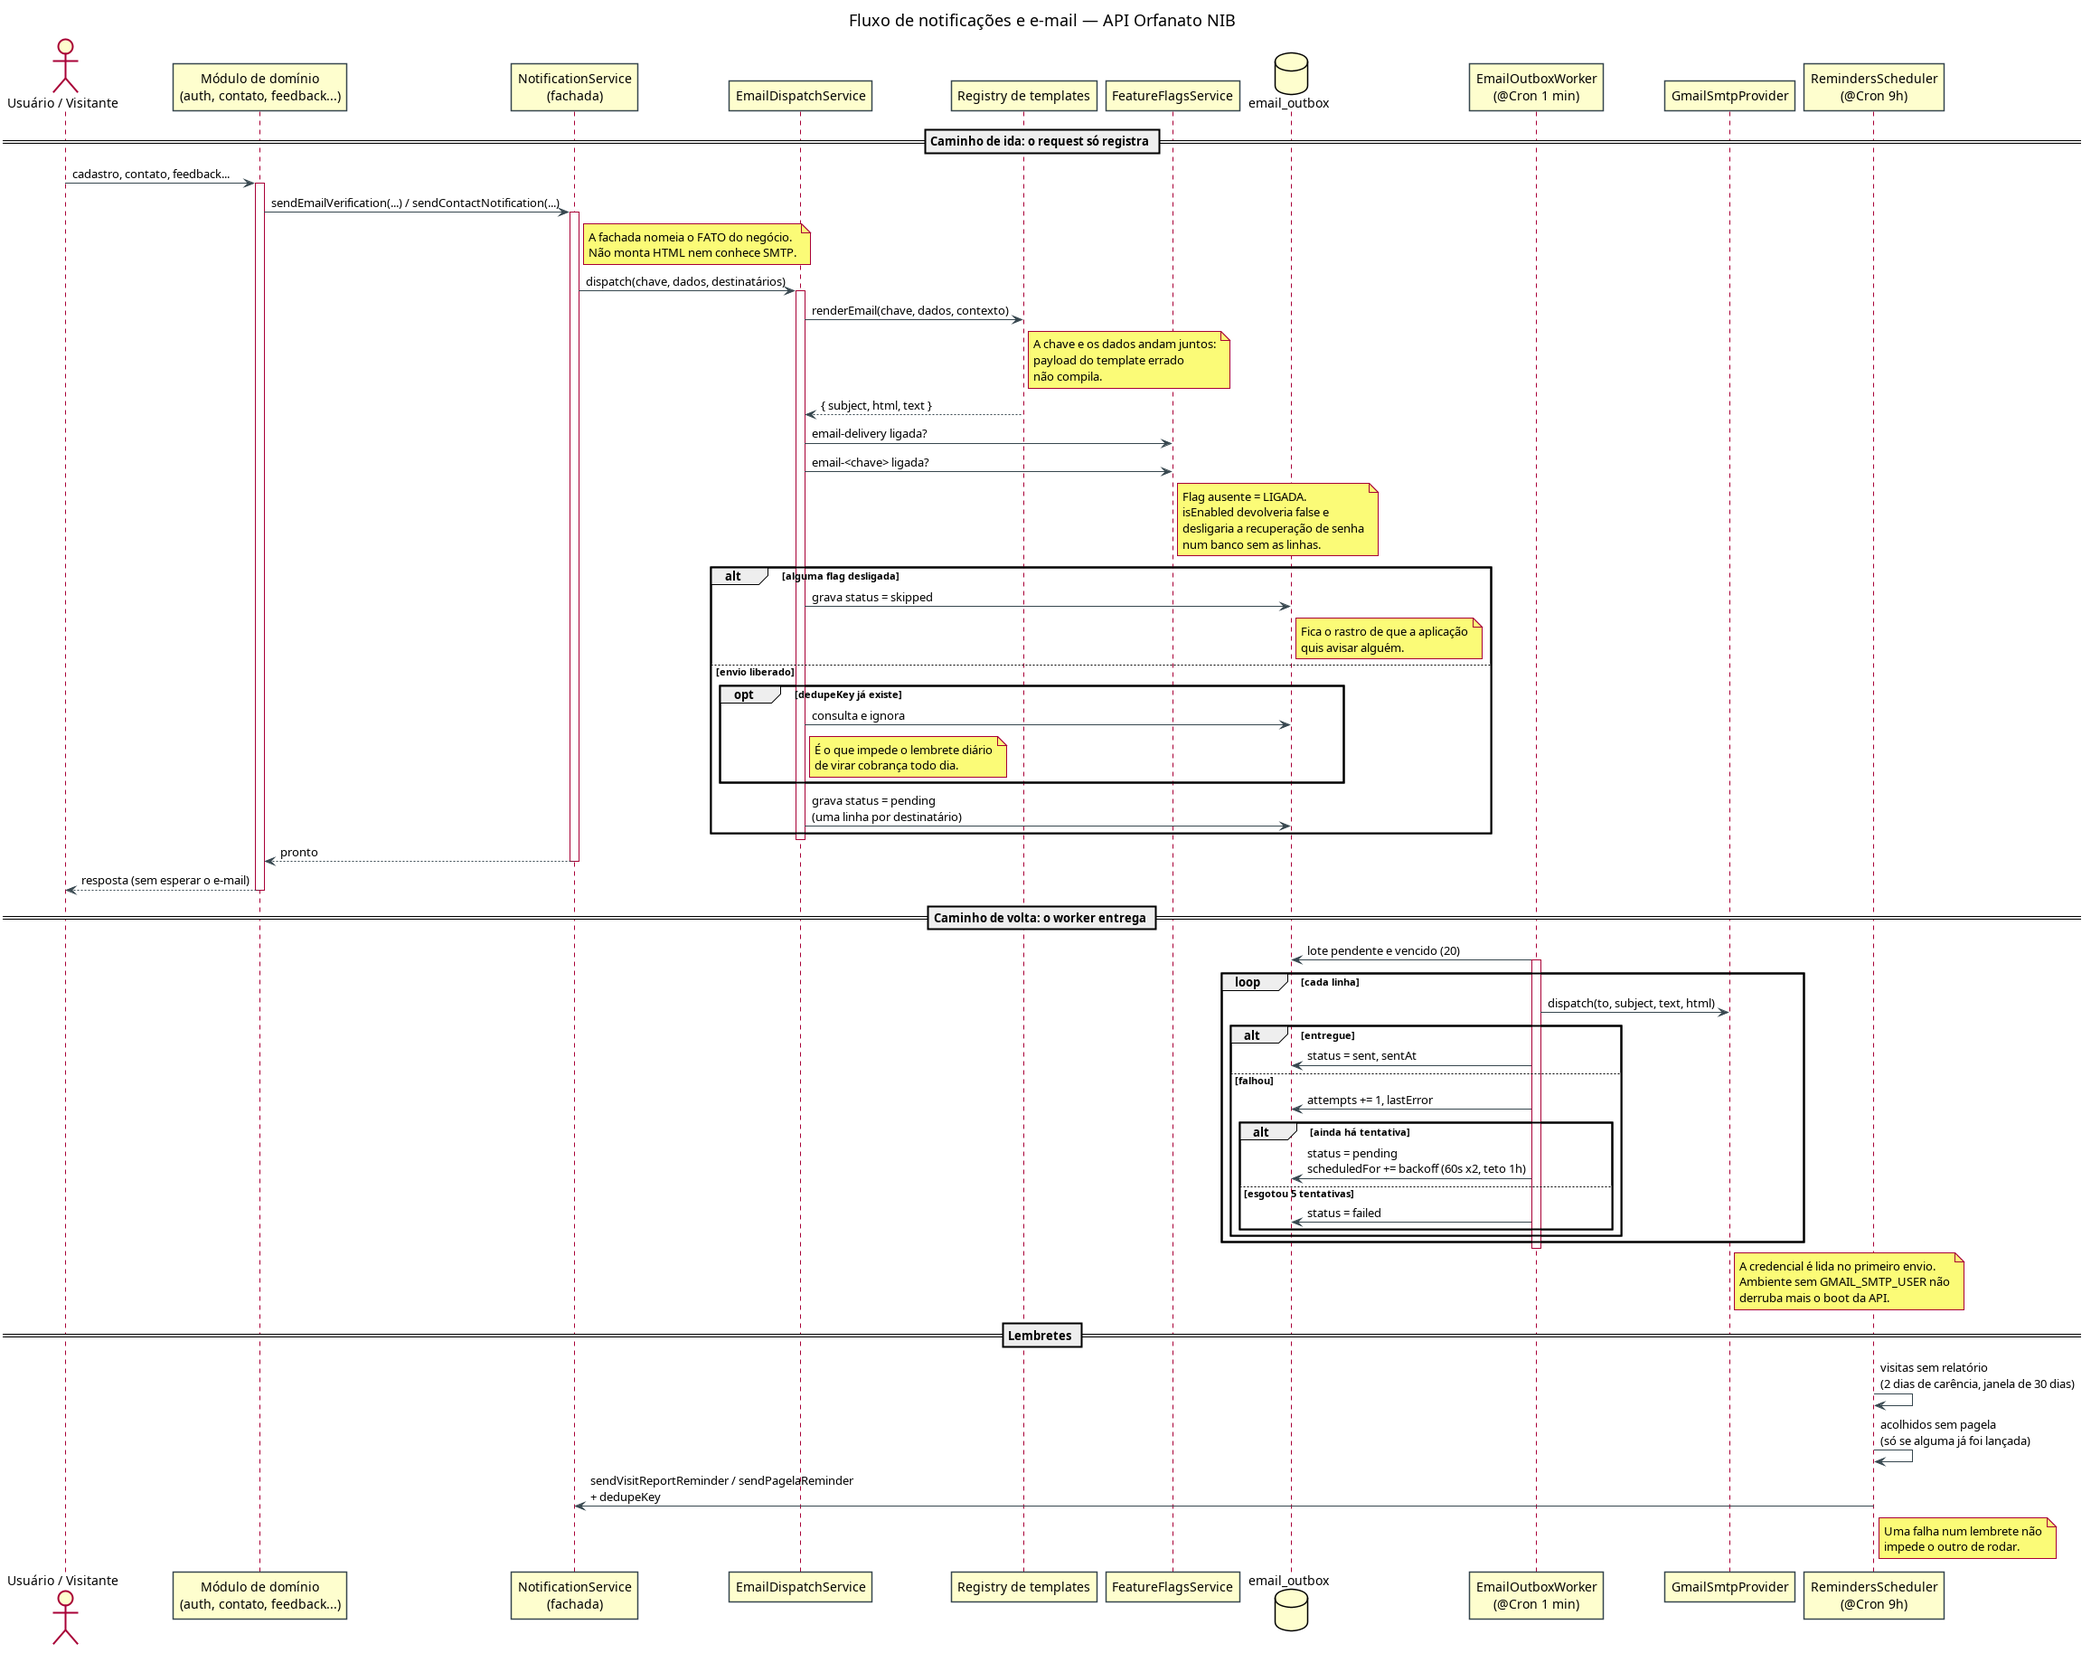
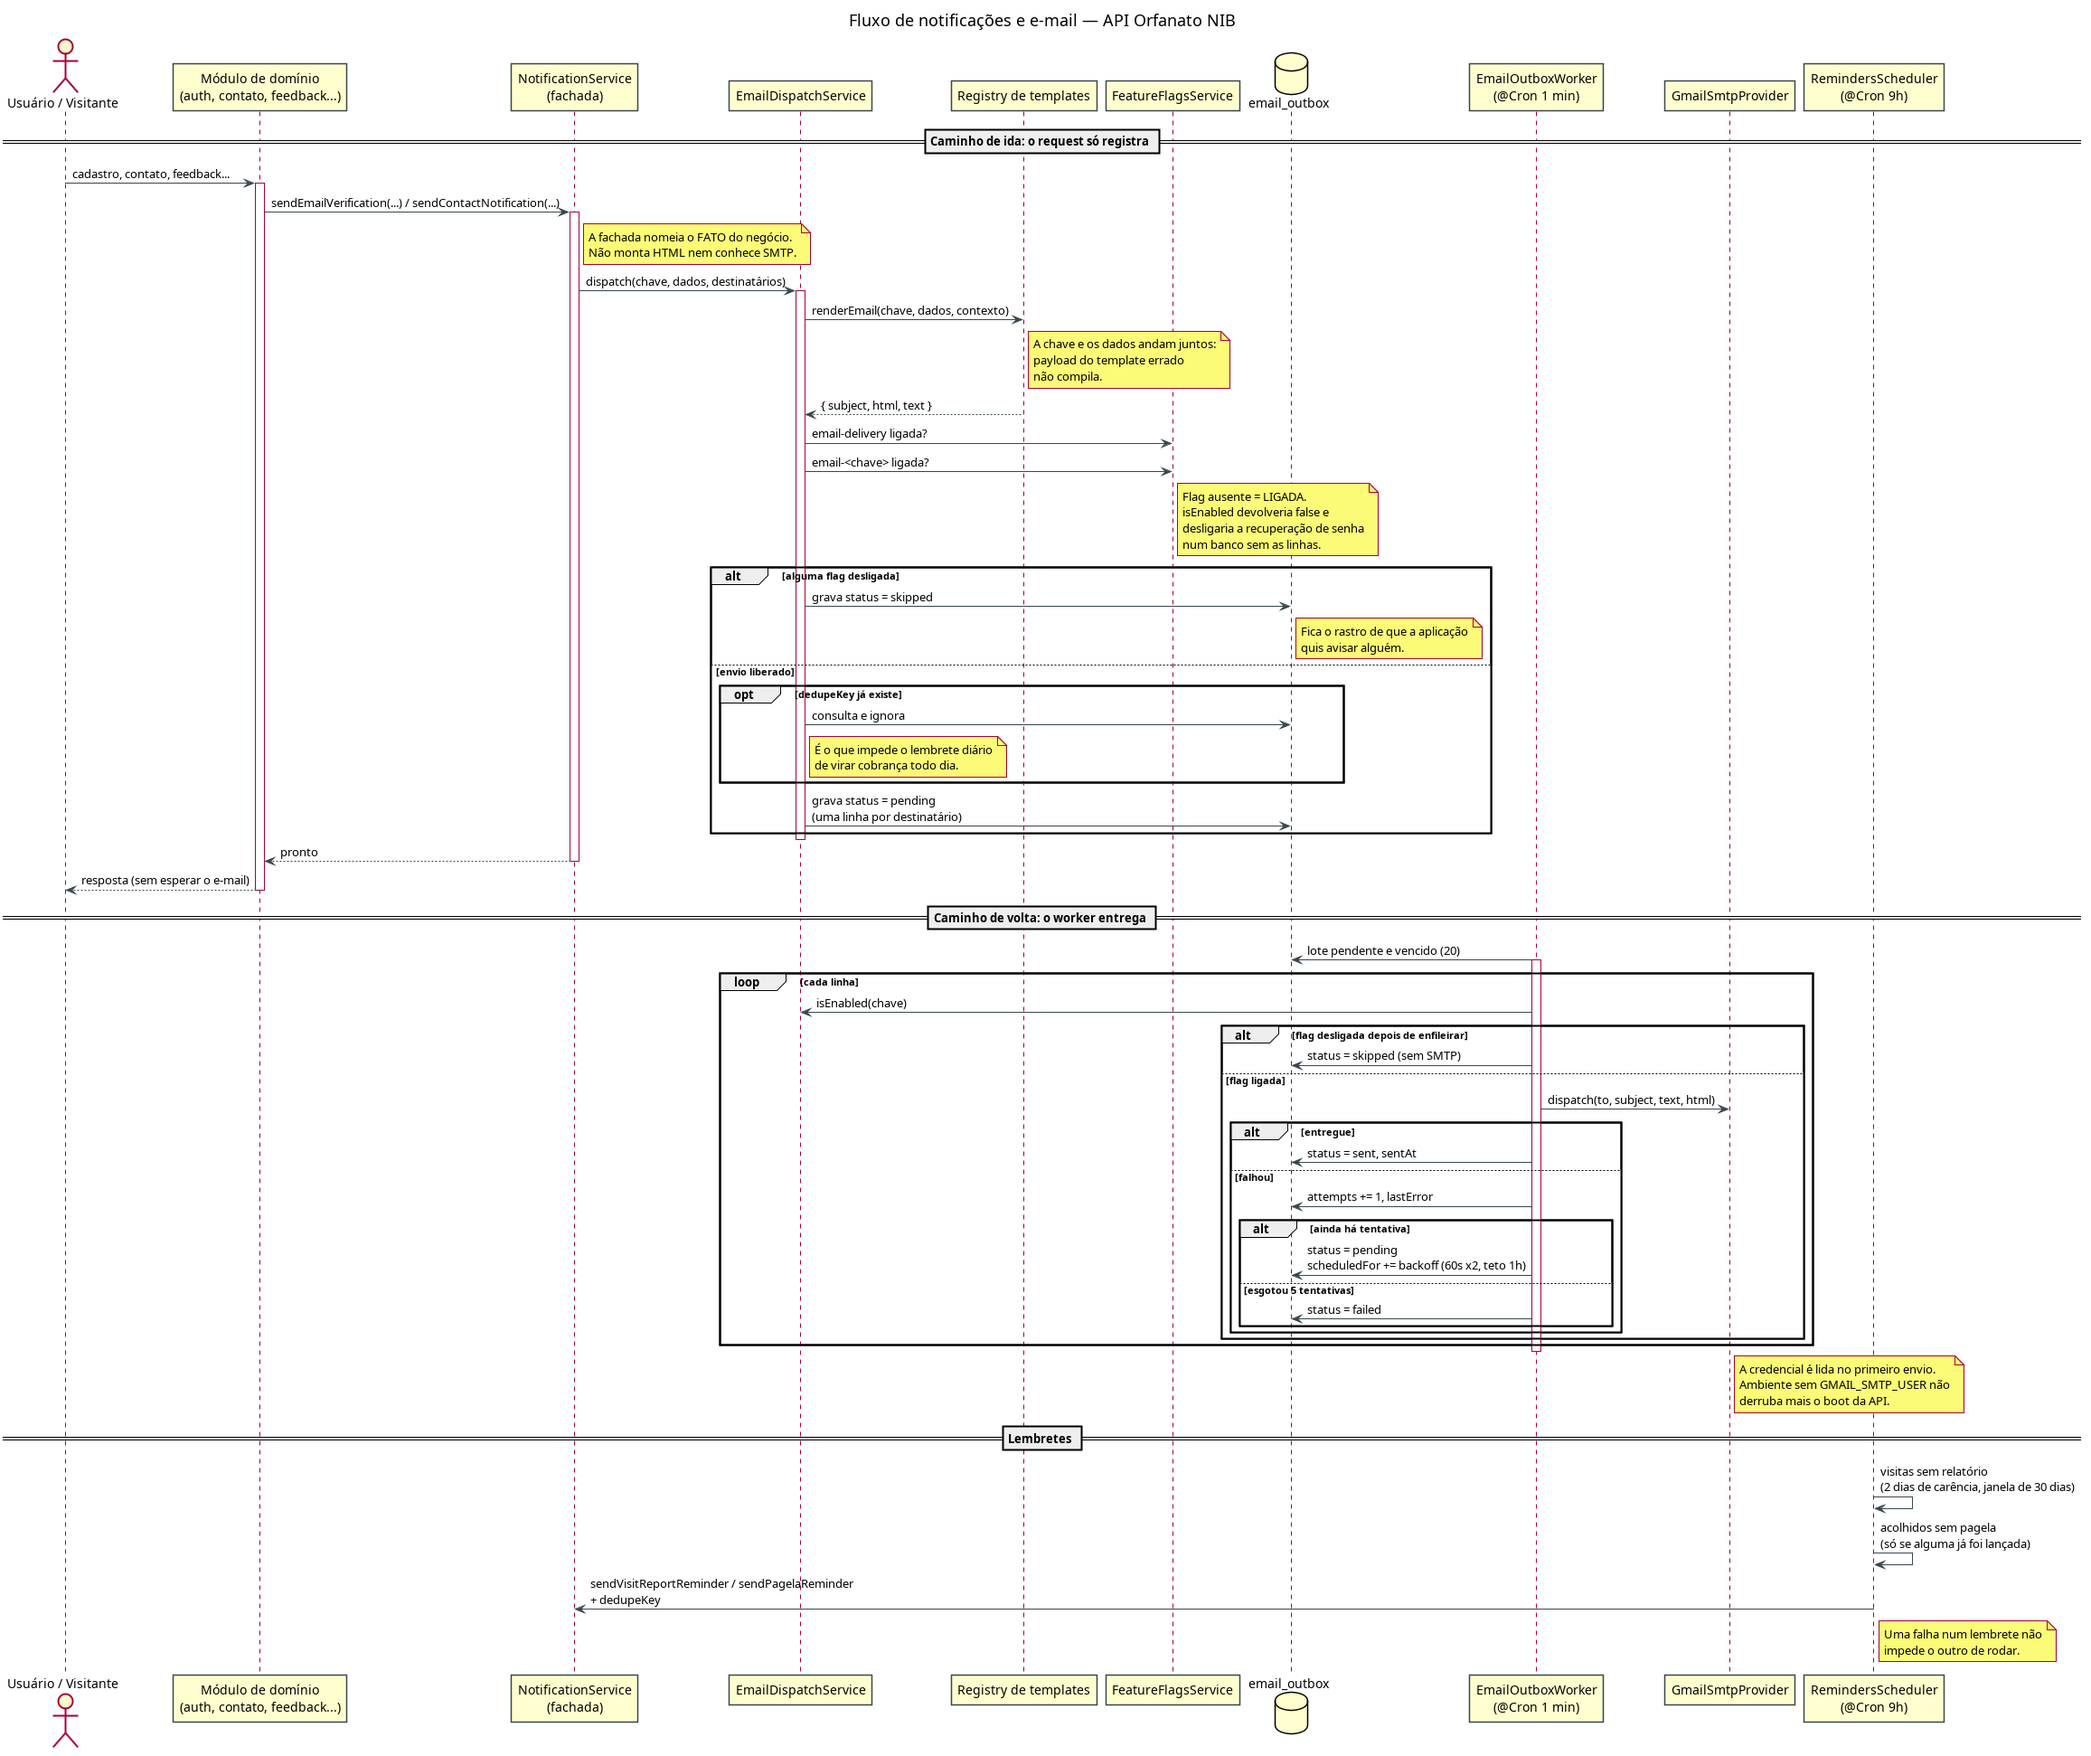
fix(email): desligar a flag interrompe também a fila já enfileirada
O worker não consultava as flags: com email_delivery (ou email_<tipo>) desligada,
o que já estava pending continuava indo ao SMTP, com novas tentativas por horas.
Agora a flag é conferida no envio e a linha vira skipped.

O registro skipped de um aviso para todos passa a ser INSERT em lotes: o save()
fazia INSERT + releitura por destinatário, cada um com o HTML.

diff --git a/src/communication/notification/outbox/email-outbox.worker.spec.ts b/src/communication/notification/outbox/email-outbox.worker.spec.ts
@@ -5,6 +5,7 @@ import { EmailOutboxService } from "./email-outbox.service";
 import { EmailOutboxEntity } from "./email-outbox.entity";
 import { EmailOutboxStatus } from "../enums/email-outbox-status.enum";
 import { EmailTemplateKey } from "../enums/email-template-key.enum";
+import { EmailDispatchService } from "../services/email-dispatch.service";
 
 const buildEntry = (
   overrides: Partial<EmailOutboxEntity> = {},
@@ -30,7 +31,9 @@ describe("EmailOutboxWorker", () => {
     findDue: jest.fn(),
     markSent: jest.fn(),
     markAttemptFailed: jest.fn(),
+    markSkipped: jest.fn(),
   };
+  const dispatcher = { isEnabled: jest.fn() };
   const emailService = { dispatch: jest.fn() };
 
   let worker: EmailOutboxWorker;
@@ -43,12 +46,14 @@ describe("EmailOutboxWorker", () => {
         EmailOutboxWorker,
         { provide: EmailOutboxService, useValue: outbox },
         { provide: EmailService, useValue: emailService },
+        { provide: EmailDispatchService, useValue: dispatcher },
       ],
     }).compile();
     moduleRef.useLogger(false);
 
     worker = moduleRef.get(EmailOutboxWorker);
 
+    dispatcher.isEnabled.mockResolvedValue(true);
     outbox.findDue.mockResolvedValue([]);
     outbox.markSent.mockResolvedValue(undefined);
     outbox.markAttemptFailed.mockResolvedValue(true);
@@ -78,6 +83,25 @@ describe("EmailOutboxWorker", () => {
       html: "<p>corpo</p>",
     });
     expect(outbox.markSent).toHaveBeenCalledTimes(2);
+  });
+
+  it("flag desligada DEPOIS de enfileirar: não chama o SMTP e registra como barrado", async () => {
+    const barred = buildEntry({
+      id: "barrado",
+      templateKey: EmailTemplateKey.CONTACT_RECEIVED,
+    });
+    const allowed = buildEntry({ id: "livre" });
+    outbox.findDue.mockResolvedValue([barred, allowed]);
+    dispatcher.isEnabled.mockImplementation((key: EmailTemplateKey) =>
+      Promise.resolve(key !== EmailTemplateKey.CONTACT_RECEIVED),
+    );
+
+    await worker.drain();
+
+    expect(outbox.markSkipped).toHaveBeenCalledWith(barred);
+    expect(emailService.dispatch).toHaveBeenCalledTimes(1);
+    expect(outbox.markSent).toHaveBeenCalledWith(allowed);
+    expect(outbox.markAttemptFailed).not.toHaveBeenCalled();
   });
 
   it("uma falha não impede os outros e-mails do lote", async () => {

diff --git a/src/communication/notification/outbox/email-outbox.service.spec.ts b/src/communication/notification/outbox/email-outbox.service.spec.ts
@@ -45,6 +45,7 @@ describe("EmailOutboxService", () => {
   const repository = {
     create: jest.fn(),
     save: jest.fn(),
+    insertMany: jest.fn(),
     saveOne: jest.fn(),
     existsByDedupeKey: jest.fn(),
     findDue: jest.fn(),
@@ -148,15 +149,37 @@ describe("EmailOutboxService", () => {
     it("registra o e-mail barrado sem enfileirar para envio", async () => {
       await service.recordSkipped(buildInput());
 
-      const [entries] = repository.save.mock.calls[0] as [EmailOutboxEntity[]];
+      const [entries] = repository.insertMany.mock.calls[0] as [
+        EmailOutboxEntity[],
+      ];
       expect(entries[0].status).toBe(EmailOutboxStatus.SKIPPED);
       expect(entries[0].dedupeKey).toBeNull();
+    });
+
+    it("muitos destinatários: grava em lotes, sem o INSERT + releitura por linha do save()", async () => {
+      const total = OUTBOX_CONFIG.SKIPPED_INSERT_CHUNK * 2 + 1;
+      const recipients = Array.from(
+        { length: total },
+        (_, index) => `p${index}@orfanatonib.test`,
+      );
+
+      await service.recordSkipped(buildInput({ recipients }));
+
+      const sizes = repository.insertMany.mock.calls.map(
+        ([entries]) => (entries as EmailOutboxEntity[]).length,
+      );
+      expect(sizes).toEqual([
+        OUTBOX_CONFIG.SKIPPED_INSERT_CHUNK,
+        OUTBOX_CONFIG.SKIPPED_INSERT_CHUNK,
+        1,
+      ]);
+      expect(repository.save).not.toHaveBeenCalled();
     });
 
     it("não grava nada sem destinatário", async () => {
       await service.recordSkipped(buildInput({ recipients: [] }));
 
-      expect(repository.save).not.toHaveBeenCalled();
+      expect(repository.insertMany).not.toHaveBeenCalled();
     });
   });
 

diff --git a/src/communication/notification/outbox/email-outbox.worker.ts b/src/communication/notification/outbox/email-outbox.worker.ts
@@ -5,6 +5,7 @@ import { ActionBoundaryService } from "src/core/audit/services/action-boundary.s
 import { runAuditedJob } from "src/core/audit/utils/audited-job.utils";
 import { EmailService } from "src/infrastructure/email/services/email.service";
 import { EmailOutboxService } from "./email-outbox.service";
+import { EmailDispatchService } from "../services/email-dispatch.service";
 import { OutboxLogs } from "../constants/notification.constants";
 
 /**
@@ -21,6 +22,7 @@ export class EmailOutboxWorker {
   constructor(
     private readonly outbox: EmailOutboxService,
     private readonly emailService: EmailService,
+    private readonly dispatcher: EmailDispatchService,
     @Optional() private readonly boundary?: ActionBoundaryService,
   ) {}
 
@@ -43,6 +45,11 @@ export class EmailOutboxWorker {
           let failed = 0;
           for (const entry of due) {
             try {
+              // A flag é um interruptor imediato: vale também para o que já estava na fila.
+              if (!(await this.dispatcher.isEnabled(entry.templateKey))) {
+                await this.outbox.markSkipped(entry);
+                continue;
+              }
               await this.emailService.dispatch({
                 to: entry.recipient,
                 subject: entry.subject,

diff --git a/src/communication/notification/outbox/email-outbox.service.ts b/src/communication/notification/outbox/email-outbox.service.ts
@@ -82,12 +82,28 @@ export class EmailOutboxService {
       }),
     );
 
-    await this.repository.save(entries);
+    // Um aviso para todos são milhares de linhas com o HTML inteiro: nada aqui precisa da releitura do `save()`.
+    for (
+      let start = 0;
+      start < entries.length;
+      start += OUTBOX_CONFIG.SKIPPED_INSERT_CHUNK
+    ) {
+      await this.repository.insertMany(
+        entries.slice(start, start + OUTBOX_CONFIG.SKIPPED_INSERT_CHUNK),
+      );
+    }
     this.logger.log(OutboxLogs.SKIPPED_BY_FLAG(input.templateKey));
   }
 
   findDue(now: Date): Promise<EmailOutboxEntity[]> {
     return this.repository.findDue(OUTBOX_CONFIG.BATCH_SIZE, now);
+  }
+
+  /** A flag foi desligada enquanto a linha aguardava: sai da fila sem envio e sem perder o rastro. */
+  async markSkipped(entry: EmailOutboxEntity): Promise<void> {
+    entry.status = EmailOutboxStatus.SKIPPED;
+    await this.repository.saveOne(entry);
+    this.logger.log(OutboxLogs.SKIPPED_BY_FLAG(entry.templateKey));
   }
 
   async markSent(entry: EmailOutboxEntity): Promise<void> {

diff --git a/src/communication/notification/outbox/email-outbox.repository.ts b/src/communication/notification/outbox/email-outbox.repository.ts
@@ -20,6 +20,16 @@ export class EmailOutboxRepository {
     return this.repo.save(entries);
   }
 
+  /** INSERT em lote, sem reler as linhas gravadas. */
+  async insertMany(entries: EmailOutboxEntity[]): Promise<void> {
+    await this.repo
+      .createQueryBuilder()
+      .insert()
+      .values(entries)
+      .updateEntity(false)
+      .execute();
+  }
+
   saveOne(entry: EmailOutboxEntity): Promise<EmailOutboxEntity> {
     return this.repo.save(entry);
   }

diff --git a/src/communication/notification/constants/notification.constants.ts b/src/communication/notification/constants/notification.constants.ts
@@ -29,6 +29,8 @@ export const OUTBOX_CONFIG = {
   BACKOFF_MAX_SECONDS: 3600,
   /** Tamanho máximo do erro guardado na linha. */
   ERROR_MAX_LENGTH: 1000,
+  /** Linhas por INSERT ao registrar os avisos barrados pela flag (cada uma carrega o HTML). */
+  SKIPPED_INSERT_CHUNK: 100,
 } as const;
 
 /** Janela dos lembretes agendados. */

diff --git a/docs/CHANGELOG.md b/docs/CHANGELOG.md
@@ -4,6 +4,13 @@ Registro completo de todas as mudanças, atualizações e melhorias do projeto.
 
 ---
 
+## [Unreleased] - 2026-11-26 - CAMPANHA E2E: MÍDIA E FILA DE E-MAIL
+
+- **FIX (perda de dados)**: `POST /media-storage/reconcile?dryRun=false` tratava como órfão tudo o que só era referenciado fora de `media_items` e **apagava capas e arquivos do Estúdio e imagens de rota em uso**. A reconciliação e o descarte de upload passam a consultar todas as colunas de mídia.
+- **FIX (interruptor de e-mail)**: o worker da fila não conferia as flags: desligar `email_delivery`/`email_<tipo>` não parava o que já estava `pending`. Agora a flag é conferida no envio e a linha vira `skipped`.
+- **PERF**: o registro `skipped` de um aviso para todos usava `save()` (INSERT + releitura por destinatário, com o HTML); agora é INSERT em lotes de 100.
+- **TEST**: suíte Jest recuperada (specs herdadas de outro projeto e expectativas anteriores à publicação incremental).
+
 ## [Unreleased] - 2026-11-23 - SININHO COM CAIXA DE ENTRADA (ESTÚDIOS)
 
 - **FEAT (notificações)**: nova caixa de entrada persistida do sininho (`inbox_notifications`, módulo `communication/inbox`, migration gerada pelo CLI). Endpoints `GET /notifications/me` (paginado, `status=unread`, `type`), `/summary` (`unreadCount`, `total`, `revision`, `recentUnread`), `/:id`, `PATCH /:id/read` e `PATCH /read-all` (idempotentes). O destinatário vem sempre da sessão; aviso de outra pessoa é `404`. Atrás da flag `notification_center` (catálogo: 59 flags de interface).

diff --git a/docs/modules/notifications/README.md b/docs/modules/notifications/README.md
@@ -141,6 +141,8 @@ módulo usa `isEnabledOrDefault(chave, true)`.
 
 O e-mail barrado por flag **fica registrado** no outbox como `skipped`:
 desligar o envio não apaga o rastro de que a aplicação quis avisar alguém.
+A flag é conferida ao enfileirar **e de novo no envio**: o que já estava `pending`
+(ou aguardando nova tentativa) quando a flag foi desligada também vira `skipped`.
 
 No ambiente local `email_delivery` fica **desligada** — sem isso, rodar
 os testes dispararia e-mail de verdade, porque `env/local.env` costuma ter
